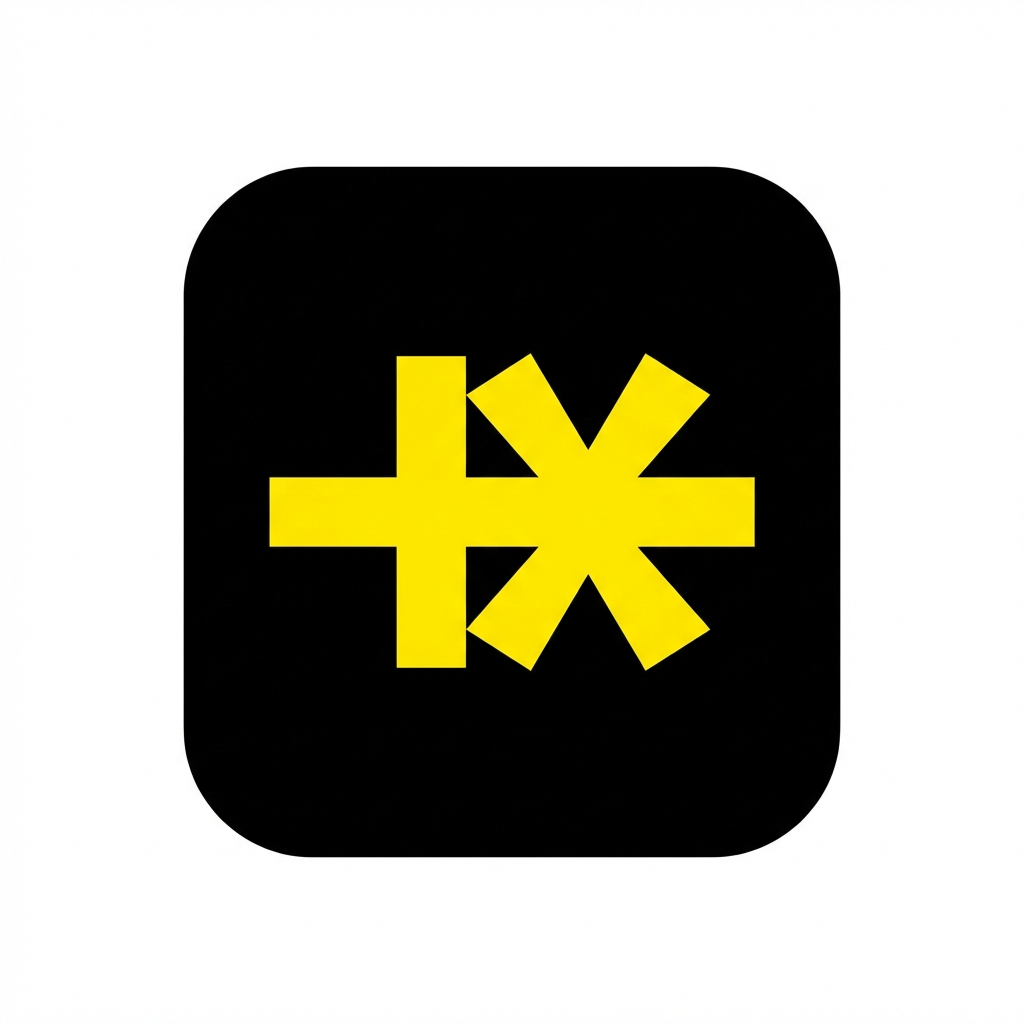
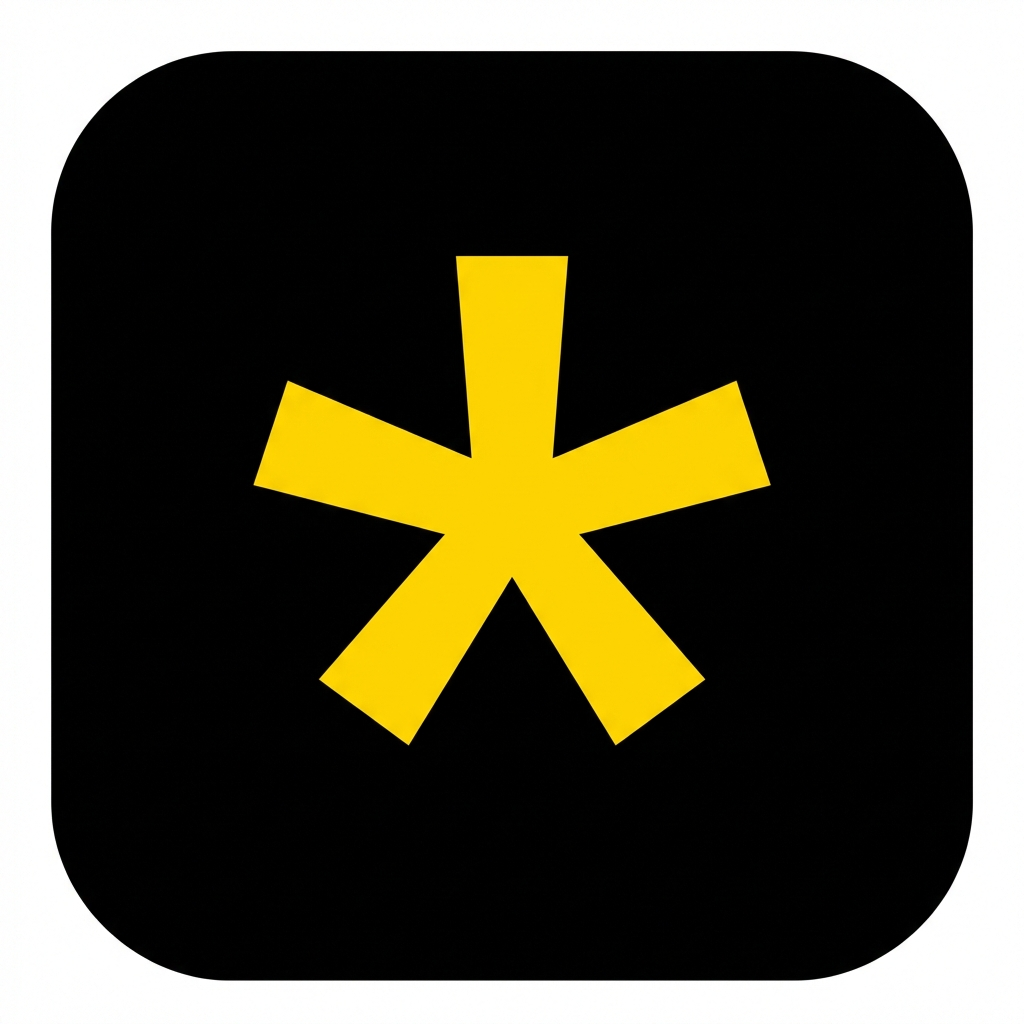
new

diff --git a/vite.config.ts b/vite.config.ts
@@ -34,9 +34,19 @@ export default defineConfig(({ mode }) => {
           orientation: 'portrait',
           icons: [
             {
-              src: 'pwa-icon.svg',
-              sizes: '192x192 512x512',
-              type: 'image/svg+xml',
+              src: 'pwa-192x192.png',
+              sizes: '192x192',
+              type: 'image/png'
+            },
+            {
+              src: 'pwa-512x512.png',
+              sizes: '512x512',
+              type: 'image/png'
+            },
+            {
+              src: 'pwa-512x512.png',
+              sizes: '512x512',
+              type: 'image/png',
               purpose: 'any maskable'
             }
           ]
